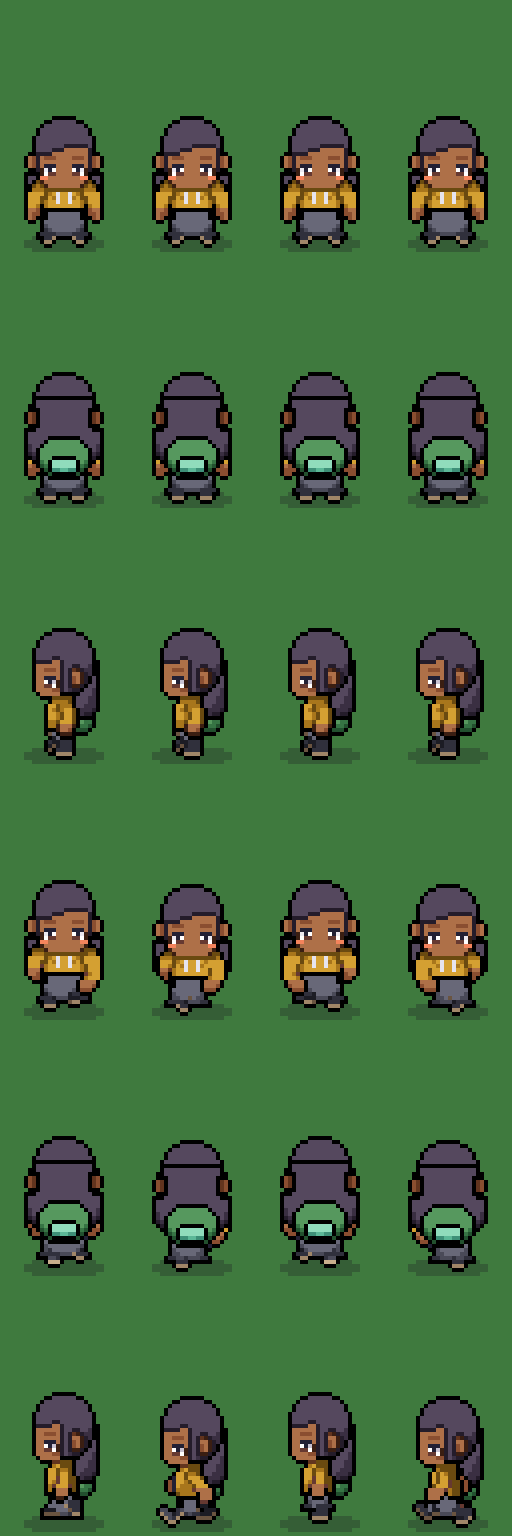
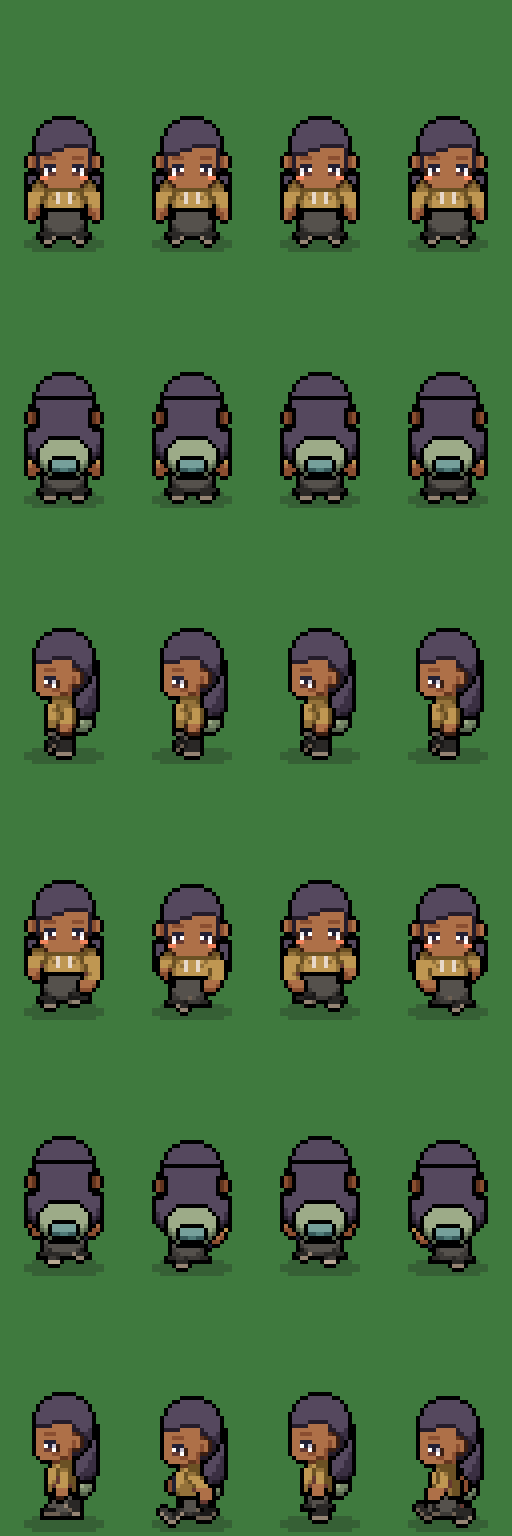
Retro dim-pastel palette; remove sideburn
- palette anchored on cream #e8d8c9, slate #4b607f, orange #f3701e,
  charcoal #1f1d1c: new muted ramps for environment (grass, path, wood,
  walls, floors, water, accent, paper) and clothing (cream, slate, dusk,
  sage, teal, mustard, orange, rust, rose, plum, beige, charcoal);
  dusty-rose hair instead of pink
- furniture/tiles use palette ramps only (no hardcoded reds/whites)
- UI: charcoal panels, cream text, orange primary, slate secondary buttons
- default avatar recolored; unknown saved color names fall back to the
  first color of the library (no key colors after a palette change)
- side view: no sideburn — below the hairline, hair only from the ear back

Claude-Session: https://claude.ai/code/session_01AuTfW4RY5hqwpF1mFtvoZZ

diff --git a/scripts/gen-placeholders.ts b/scripts/gen-placeholders.ts
@@ -565,7 +565,8 @@ function hairCap(f: Frame, sideLen: number) {
     fromHead(r, p, (x, y) => y <= headBottom + 2 && !ear(x, y));
   } else {
     // top + the whole back half of the head down to the nape, around the ear
-    fromHead(r, p, (x, y) => !ear(x, y) && (y <= h.y + 7 || (x >= h.x + 9 && y <= headBottom) || (x >= h.x + 7 && y <= h.y + 6 + Math.max(6, sideLen))));
+    // no sideburn: below the hairline, hair only from the ear backwards
+    fromHead(r, p, (x, y) => !ear(x, y) && (y <= h.y + 7 || (x >= h.x + 10 && y <= headBottom)));
     r.rect(h.x + 1, h.y + 8, 4, 1); // fringe tip
   }
 }
@@ -640,8 +641,8 @@ function terrainTileset(): Canvas {
   };
 
   // grass variants
-  noise(TERRAIN.grass0, E.grass!, 1, 0.06);
-  const g1 = noise(TERRAIN.grass1, E.grass!, 2, 0.06);
+  noise(TERRAIN.grass0, E.grass!, 1, 0.025);
+  const g1 = noise(TERRAIN.grass1, E.grass!, 2, 0.025);
   for (let i = 0; i < 5; i++) {
     const x = Math.floor(g1.rand() * 28) + 2;
     const y = Math.floor(g1.rand() * 26) + 4;
@@ -649,11 +650,11 @@ function terrainTileset(): Canvas {
     c.set(g1.ox + x, g1.oy + y - 1, E.grass![3]!);
     c.set(g1.ox + x + 1, g1.oy + y, E.grass![1]!);
   }
-  const g2 = noise(TERRAIN.grass2, E.grass!, 3, 0.06);
+  const g2 = noise(TERRAIN.grass2, E.grass!, 3, 0.025);
   for (let i = 0; i < 4; i++) {
     const x = Math.floor(g2.rand() * 26) + 3;
     const y = Math.floor(g2.rand() * 26) + 3;
-    const col = i % 2 ? "#ffffff" : "#f0c860";
+    const col = i % 2 ? E.paper![3]! : E.accent![3]!;
     c.set(g2.ox + x, g2.oy + y, col);
     c.set(g2.ox + x + 1, g2.oy + y, col);
     c.set(g2.ox + x, g2.oy + y + 1, col);
@@ -748,18 +749,18 @@ function terrainTileset(): Canvas {
     c.fill(ox + 7, oy + 8, 18, 18, E.water![3]!);
     c.fill(ox + 15, oy + 8, 2, 18, E.metal![2]!);
     c.fill(ox + 7, oy + 16, 18, 1, E.metal![2]!);
-    for (let i = 0; i < 6; i++) c.set(ox + 9 + i, oy + 22 - i, "#ffffff");
+    for (let i = 0; i < 6; i++) c.set(ox + 9 + i, oy + 22 - i, E.paper![3]!);
   }
   // collision marker (only visible in Tiled; hidden in game)
   {
     const { ox, oy } = at(TERRAIN.collision);
     for (let i = 0; i < TILE; i++) {
-      c.set(ox + i, oy + i, "#e07030", 160);
-      c.set(ox + TILE - 1 - i, oy + i, "#c4343a", 160);
-      c.set(ox + i, oy, "#c4343a", 160);
-      c.set(ox + i, oy + TILE - 1, "#c4343a", 160);
-      c.set(ox, oy + i, "#c4343a", 160);
-      c.set(ox + TILE - 1, oy + i, "#c4343a", 160);
+      c.set(ox + i, oy + i, E.accent![2]!, 160);
+      c.set(ox + TILE - 1 - i, oy + i, E.accent![1]!, 160);
+      c.set(ox + i, oy, E.accent![1]!, 160);
+      c.set(ox + i, oy + TILE - 1, E.accent![1]!, 160);
+      c.set(ox, oy + i, E.accent![1]!, 160);
+      c.set(ox + TILE - 1, oy + i, E.accent![1]!, 160);
     }
   }
   // doormat
@@ -834,13 +835,13 @@ const FURNITURE: { name: string; w: number; h: number; fw: number; fh: number; d
       for (let x = 10; x < 90; x += 16) c.fill(x, 34, 1, 26, E.wood![1]!);
       // espresso machine
       new Region(96, 64, E.metal!).round(10, 4, 22, 22, 2).paint(c);
-      c.fill(14, 10, 4, 3, "#c4343a");
+      c.fill(14, 10, 4, 3, E.accent![2]!);
       new Region(96, 64, E.metal!).rect(17, 18, 8, 3).paint(c);
       // cups
       for (const x of [44, 52, 60]) new Region(96, 64, E.tileFloor!).round(x, 16, 6, 7, 1).paint(c);
       // register
       new Region(96, 64, E.wallTop!).round(72, 10, 16, 14, 1).paint(c);
-      c.fill(75, 12, 10, 5, "#5cb898");
+      c.fill(75, 12, 10, 5, E.water![3]!);
     },
   },
   {
@@ -879,10 +880,10 @@ const FURNITURE: { name: string; w: number; h: number; fw: number; fh: number; d
       new Region(64, 64, E.metal!).rect(8, 40, 3, 22).paint(c);
       new Region(64, 64, E.metal!).rect(53, 40, 3, 22).paint(c);
       new Region(64, 64, E.metal!).round(2, 4, 60, 40, 1).paint(c);
-      c.fill(5, 7, 54, 34, "#ffffff");
+      c.fill(5, 7, 54, 34, E.paper![3]!);
       c.fill(9, 12, 22, 1, E.water![1]!);
       c.fill(9, 16, 30, 1, E.water![1]!);
-      c.fill(9, 20, 16, 1, "#c4343a");
+      c.fill(9, 20, 16, 1, E.accent![2]!);
       new Region(64, 64, E.leaf!).rect(38, 22, 16, 14).paint(c);
     },
   },
@@ -917,8 +918,8 @@ const FURNITURE: { name: string; w: number; h: number; fw: number; fh: number; d
       new Region(32, 96, E.metal!).rect(14, 20, 4, 70).paint(c);
       new Region(32, 96, E.metal!).round(10, 88, 12, 6, 1).paint(c);
       new Region(32, 96, E.metal!).round(8, 8, 16, 14, 2).paint(c);
-      c.fill(11, 12, 10, 7, "#f0c860");
-      c.fill(12, 13, 4, 2, "#ffffff");
+      c.fill(11, 12, 10, 7, E.accent![3]!);
+      c.fill(12, 13, 4, 2, E.paper![3]!);
     },
   },
   {
@@ -927,8 +928,8 @@ const FURNITURE: { name: string; w: number; h: number; fw: number; fh: number; d
       new Region(32, 64, E.wallTop!).round(4, 6, 24, 54, 3).paint(c);
       new Region(32, 64, E.water!).round(7, 10, 18, 24, 2).paint(c);
       // capsule icon
-      c.fill(11, 18, 5, 6, "#c4343a");
-      c.fill(16, 18, 5, 6, "#ffffff");
+      c.fill(11, 18, 5, 6, E.accent![2]!);
+      c.fill(16, 18, 5, 6, E.paper![3]!);
       c.fill(12, 17, 8, 1, E.wallTop![0]!);
       c.fill(12, 24, 8, 1, E.wallTop![0]!);
       new Region(32, 64, E.metal!).round(9, 40, 14, 10, 1).paint(c);

diff --git a/client/src/ui/styles.css b/client/src/ui/styles.css
@@ -1,10 +1,12 @@
 :root {
-  --bg: #1a1420;
-  --panel: rgba(26, 20, 32, 0.92);
-  --line: rgba(255, 255, 255, 0.1);
-  --text: #f4f0f8;
-  --muted: #9c96b0;
-  --accent: #5cb898;
+  /* retro dim pastel: cream #e8d8c9 · slate #4b607f · orange #f3701e · charcoal #1f1d1c */
+  --bg: #1f1d1c;
+  --panel: rgba(31, 29, 28, 0.94);
+  --line: rgba(232, 216, 201, 0.14);
+  --text: #e8d8c9;
+  --muted: #9c8f82;
+  --accent: #f3701e;
+  --slate: #4b607f;
   font-family: ui-sans-serif, system-ui, -apple-system, "Segoe UI", sans-serif;
   color: var(--text);
 }
@@ -18,24 +20,24 @@ html, body { margin: 0; height: 100%; overflow: hidden; background: var(--bg); }
 .loading { position: fixed; inset: 0; display: grid; place-items: center; color: var(--muted); font-size: 14px; }
 
 .hud-top { position: fixed; top: 12px; left: 12px; display: flex; gap: 8px; align-items: center; pointer-events: none; }
-.brand { font-weight: 700; letter-spacing: 0.02em; background: var(--panel); padding: 6px 10px; border-radius: 8px; border: 1px solid var(--line); font-size: 13px; }
+.brand { color: var(--text); font-weight: 700; letter-spacing: 0.02em; background: var(--panel); padding: 6px 10px; border-radius: 8px; border: 1px solid var(--line); font-size: 13px; }
 .chip { background: var(--panel); border: 1px solid var(--line); border-radius: 999px; padding: 4px 10px; font-size: 12px; color: var(--muted); text-transform: capitalize; }
 
-.debug-panel { position: fixed; top: 12px; right: 12px; background: var(--panel); border: 1px solid var(--line); border-radius: 8px; padding: 8px 10px; font: 12px ui-monospace, Menlo, monospace; line-height: 1.5; pointer-events: none; }
+.debug-panel { color: var(--text); position: fixed; top: 12px; right: 12px; background: var(--panel); border: 1px solid var(--line); border-radius: 8px; padding: 8px 10px; font: 12px ui-monospace, Menlo, monospace; line-height: 1.5; pointer-events: none; }
 .muted { color: var(--muted); }
 
 .dock { position: fixed; bottom: 14px; left: 50%; transform: translateX(-50%); display: flex; gap: 8px; align-items: center; background: var(--panel); border: 1px solid var(--line); border-radius: 12px; padding: 6px; }
 .hint { color: var(--muted); font-size: 12px; padding: 0 8px; }
 
-.btn { background: var(--accent); color: #0e1a14; border: 0; border-radius: 8px; padding: 8px 14px; font-weight: 600; font-size: 13px; cursor: pointer; }
+.btn { background: var(--accent); color: #1f1d1c; border: 0; border-radius: 8px; padding: 8px 14px; font-weight: 600; font-size: 13px; cursor: pointer; }
 .btn:hover { filter: brightness(1.08); }
-.btn.ghost { background: transparent; color: var(--text); border: 1px solid var(--line); }
+.btn.ghost { background: var(--slate); color: var(--text); border: 1px solid transparent; }
 .btn.small { padding: 4px 10px; font-size: 12px; }
 
 .builder-backdrop { position: fixed; inset: 0; background: rgba(10, 8, 14, 0.55); display: grid; place-items: center; }
 .builder { display: flex; gap: 20px; background: var(--panel); border: 1px solid var(--line); border-radius: 14px; padding: 20px; width: min(760px, 94vw); max-height: 90vh; }
 .builder-preview { display: flex; flex-direction: column; align-items: center; gap: 10px; width: 200px; flex-shrink: 0; }
-.preview { width: 160px; height: 320px; image-rendering: pixelated; background: repeating-conic-gradient(#2a2432 0% 25%, #241e2c 0% 50%) 0 0 / 20px 20px; border-radius: 10px; border: 1px solid var(--line); }
+.preview { width: 160px; height: 320px; image-rendering: pixelated; background: repeating-conic-gradient(#2a2826 0% 25%, #24221f 0% 50%) 0 0 / 20px 20px; border-radius: 10px; border: 1px solid var(--line); }
 .builder-side { flex: 1; display: flex; flex-direction: column; gap: 12px; overflow: auto; }
 .row { display: flex; gap: 6px; align-items: center; }
 .row.end { justify-content: flex-end; margin-top: auto; }
@@ -43,10 +45,10 @@ html, body { margin: 0; height: 100%; overflow: hidden; background: var(--bg); }
 .label { font-size: 11px; text-transform: uppercase; letter-spacing: 0.08em; color: var(--muted); margin-bottom: 6px; align-self: flex-start; }
 .tabs { display: flex; flex-wrap: wrap; gap: 4px; }
 .tab { background: transparent; color: var(--muted); border: 1px solid var(--line); border-radius: 999px; padding: 5px 11px; font-size: 12px; cursor: pointer; }
-.tab.on { color: var(--text); border-color: var(--accent); background: rgba(92, 184, 152, 0.15); }
+.tab.on { color: var(--text); border-color: var(--accent); background: rgba(243, 112, 30, 0.14); }
 .items { display: flex; flex-wrap: wrap; gap: 6px; }
 .item { background: rgba(255, 255, 255, 0.05); color: var(--text); border: 1px solid var(--line); border-radius: 8px; padding: 8px 12px; font-size: 13px; cursor: pointer; }
-.item.on { border-color: var(--accent); background: rgba(92, 184, 152, 0.15); }
+.item.on { border-color: var(--accent); background: rgba(243, 112, 30, 0.14); }
 .item.locked { opacity: 0.45; cursor: not-allowed; }
 .swatches { display: flex; flex-wrap: wrap; gap: 6px; }
 .swatch { width: 22px; height: 22px; border-radius: 6px; border: 2px solid transparent; cursor: pointer; box-shadow: inset 0 0 0 1px rgba(0, 0, 0, 0.4); }

diff --git a/shared/src/palette.ts b/shared/src/palette.ts
@@ -31,22 +31,33 @@ export const HAIR_RAMPS: Record<string, Ramp> = {
   auburn: ["#3a140e", "#6e2618", "#a03e24", "#c8603a"],
   blonde: ["#6e4a1c", "#b0823a", "#dcb05c", "#f2d88e"],
   gray: ["#3e3c44", "#6c6a74", "#9c9aa4", "#cfcdd6"],
-  pink: ["#5a1e3c", "#a03c6a", "#d8689a", "#f4a6c6"],
+  rose: ["#5e3a40", "#8a5560", "#b07a82", "#d1a3a6"], // dusty rose (retro palette)
 };
 
+/**
+ * Retro dim-pastel palette. Anchors: cream #e8d8c9 · slate #4b607f · orange #f3701e · charcoal #1f1d1c.
+ * Every ramp is muted/desaturated so the whole game reads as one warm, dusty retro scheme.
+ */
+export const RETRO = {
+  cream: "#e8d8c9",
+  slate: "#4b607f",
+  orange: "#f3701e",
+  charcoal: "#1f1d1c",
+} as const;
+
 export const CLOTH_RAMPS: Record<string, Ramp> = {
-  charcoal: ["#1c1c24", "#30303c", "#4a4a58", "#686878"],
-  white: ["#8e8a9c", "#c4c0d0", "#e6e4ee", "#ffffff"],
-  navy: ["#141c38", "#22305c", "#344a86", "#4e68aa"],
-  sky: ["#1e4a78", "#2f72a8", "#4a9ad0", "#7cc2ea"],
-  forest: ["#14301e", "#22502e", "#367444", "#56985e"],
-  mint: ["#2a6656", "#3e9078", "#5cb898", "#90dcbc"],
-  mustard: ["#6a4a10", "#a8761c", "#d4a032", "#f0c860"],
-  orange: ["#6e2a10", "#b04a1c", "#e07030", "#f8a060"],
-  red: ["#5a1418", "#922028", "#c4343a", "#e86058"],
-  plum: ["#381a3e", "#5c2c66", "#844490", "#ac6ab6"],
-  beige: ["#6a5440", "#a08668", "#c8ae8c", "#e8d6b6"],
-  denim: ["#1c2a44", "#2e4268", "#46608e", "#6884b0"],
+  charcoal: ["#1a1918", "#2a2826", "#3d3a37", "#55514c"],
+  cream: ["#9c8f82", "#c4b5a6", "#e8d8c9", "#f6efe7"],
+  slate: ["#263142", "#37465e", "#4b607f", "#6f84a3"],
+  dusk: ["#2b2f45", "#3d4360", "#565e82", "#7a82a4"],
+  sage: ["#3a4535", "#55644c", "#768767", "#9dab88"],
+  teal: ["#24403f", "#36595a", "#4f7a78", "#76a09b"],
+  mustard: ["#6b5124", "#94723a", "#bf9752", "#dcbc7d"],
+  orange: ["#8a3c12", "#c2561a", "#f3701e", "#f7a066"],
+  rust: ["#5c2a20", "#83402f", "#a85a45", "#c98370"],
+  rose: ["#6b4148", "#8f5c63", "#b37f84", "#d3a7a8"],
+  plum: ["#3d2d3d", "#574257", "#755c74", "#977f95"],
+  beige: ["#6e6052", "#958473", "#b9a893", "#d6c7b3"],
 };
 
 /** Fixed (non-recolorable) colors allowed in character art. */
@@ -62,21 +73,24 @@ export const FIXED_COLORS = {
   base3: "#ffffff",
   glassFrame: "#24202c",
   glassLens: "#a8d8f0",
-  shadow: "#1a1420", // only with alpha, in the shadow layer
+  shadow: "#1f1d1c", // only with alpha, in the shadow layer
 } as const;
 
 /** Environment palette (tiles + furniture). */
+/** Environment palette (tiles + furniture) — same retro dim-pastel family. */
 export const ENV_RAMPS: Record<string, Ramp> = {
-  grass: ["#2e5a32", "#3f7a3e", "#5a9a4c", "#7cba62"],
-  path: ["#6e6258", "#8e8276", "#aea294", "#cec2b2"],
-  wood: ["#4a2e1e", "#6e4630", "#94643e", "#b88656"],
-  wallFace: ["#5a5468", "#7a7490", "#9c96b0", "#c2bed4"],
-  wallTop: ["#2a2634", "#3c3648", "#504a5e", "#686078"],
-  carpet: ["#3a2a4e", "#4e3a68", "#664e86", "#8268a6"],
-  tileFloor: ["#8c8a96", "#aeacb8", "#cccad4", "#e6e4ec"],
-  leaf: ["#1e4a2a", "#2e6a38", "#44904a", "#66b25e"],
-  metal: ["#3a3e48", "#5a606c", "#828a96", "#b0b8c2"],
-  water: ["#1a3e6a", "#245a92", "#3a7eb8", "#62a6d8"],
+  grass: ["#3c4637", "#56634c", "#748366", "#98a585"],
+  path: ["#6e655c", "#90867a", "#b1a595", "#cfc2b1"],
+  wood: ["#4a3329", "#6c4b3a", "#8f6a51", "#b48d6d"],
+  wallFace: ["#8c7f71", "#b0a292", "#d2c4b4", "#e8d8c9"],
+  wallTop: ["#1f1d1c", "#2c3240", "#3b4558", "#4b607f"],
+  carpet: ["#4f3530", "#6e4a3f", "#8f6352", "#b2826c"],
+  tileFloor: ["#9a9084", "#bab0a3", "#d6cbbe", "#ebe1d5"],
+  leaf: ["#2e3a2f", "#435441", "#5f7258", "#839578"],
+  metal: ["#2b2f38", "#454c5a", "#677082", "#959dab"],
+  water: ["#263247", "#374863", "#4b607f", "#7187a6"],
+  accent: ["#8a3c12", "#c2561a", "#f3701e", "#f7a066"], // retro orange (lights, signage, pills)
+  paper: ["#9c8f82", "#c4b5a6", "#e8d8c9", "#f6efe7"], // cream (screens, cups, whiteboards)
 };
 
 export function hexToRgb(hex: string): RGB {

diff --git a/scripts/preview-avatar.ts b/scripts/preview-avatar.ts
@@ -70,9 +70,9 @@ function scale(c: Canvas, k: number, bg = "#3f7a3e"): Canvas {
 
 const looks: Record<string, Avatar> = {
   default: DEFAULT_AVATAR,
-  hoodie: { skin: "brown", slots: { ...DEFAULT_AVATAR.slots, hair: { id: "hair_long_01", primary: "black" }, outerwear: { id: "outer_hoodie_01", primary: "mustard", secondary: "white" }, bottom: { id: "bottom_skirt_01", primary: "charcoal" }, shoes: { id: "shoes_boots_01", primary: "charcoal", secondary: "beige" }, back_accessory: { id: "backpack_01", primary: "forest", secondary: "mint" } } },
-  founder: { skin: "porcelain", slots: { ...DEFAULT_AVATAR.slots, hair: { id: "hair_bun_01", primary: "blonde" }, top: { id: "top_longsleeve_01", primary: "white", secondary: "navy" }, outerwear: { id: "outer_blazer_01", primary: "navy", secondary: "white" }, face_accessory: { id: "glasses_01" }, bottom: { id: "bottom_pants_01", primary: "charcoal" } } },
-  cap: { skin: "deep", slots: { ...DEFAULT_AVATAR.slots, headwear: { id: "head_cap_01", primary: "red", secondary: "charcoal" }, bottom: { id: "bottom_shorts_01", primary: "beige" }, top: { id: "top_tee_01", primary: "plum" } } },
+  hoodie: { skin: "brown", slots: { ...DEFAULT_AVATAR.slots, hair: { id: "hair_long_01", primary: "black" }, outerwear: { id: "outer_hoodie_01", primary: "mustard", secondary: "cream" }, bottom: { id: "bottom_skirt_01", primary: "charcoal" }, shoes: { id: "shoes_boots_01", primary: "charcoal", secondary: "beige" }, back_accessory: { id: "backpack_01", primary: "sage", secondary: "teal" } } },
+  founder: { skin: "porcelain", slots: { ...DEFAULT_AVATAR.slots, hair: { id: "hair_bun_01", primary: "blonde" }, top: { id: "top_longsleeve_01", primary: "cream", secondary: "slate" }, outerwear: { id: "outer_blazer_01", primary: "slate", secondary: "cream" }, face_accessory: { id: "glasses_01" }, bottom: { id: "bottom_pants_01", primary: "charcoal" } } },
+  cap: { skin: "deep", slots: { ...DEFAULT_AVATAR.slots, headwear: { id: "head_cap_01", primary: "orange", secondary: "charcoal" }, bottom: { id: "bottom_shorts_01", primary: "beige" }, top: { id: "top_tee_01", primary: "rust" } } },
 };
 
 fs.mkdirSync(path.join(ROOT, "docs/previews"), { recursive: true });

diff --git a/shared/src/avatar.ts b/shared/src/avatar.ts
@@ -107,9 +107,9 @@ export const DEFAULT_AVATAR: Avatar = {
     body: { id: "body_01" },
     face: { id: "face_01" },
     hair: { id: "hair_short_01", primary: "brown" },
-    top: { id: "top_tee_01", primary: "sky" },
-    bottom: { id: "bottom_pants_01", primary: "denim" },
-    shoes: { id: "shoes_sneakers_01", primary: "white", secondary: "charcoal" },
+    top: { id: "top_tee_01", primary: "slate" },
+    bottom: { id: "bottom_pants_01", primary: "charcoal" },
+    shoes: { id: "shoes_sneakers_01", primary: "cream", secondary: "orange" },
     outerwear: null,
     headwear: null,
     face_accessory: null,
@@ -124,7 +124,9 @@ export function rampLibraryFor(slot: Slot): Record<string, Ramp> {
 
 export function resolveRamp(slot: Slot, name: string | undefined): Ramp | undefined {
   if (!name) return undefined;
-  return rampLibraryFor(slot)[name];
+  const lib = rampLibraryFor(slot);
+  // unknown names (e.g. saved before a palette change) fall back to the first color instead of key colors
+  return lib[name] ?? Object.values(lib)[0];
 }
 
 export function skinRamp(name: string): Ramp {

diff --git a/shared/src/shared.test.ts b/shared/src/shared.test.ts
@@ -73,8 +73,8 @@ describe("palette swap", () => {
   it("replaces key ramp pixels only", () => {
     const [r, g, b] = hexToRgb(KEY_RAMPS.primary[2]);
     const px = new Uint8ClampedArray([r, g, b, 255, 10, 20, 30, 255]);
-    swapPixels(px, buildSwapTable({ primary: CLOTH_RAMPS.red! }));
-    expect([...px.slice(0, 3)]).toEqual(hexToRgb(CLOTH_RAMPS.red![2]));
+    swapPixels(px, buildSwapTable({ primary: CLOTH_RAMPS.orange! }));
+    expect([...px.slice(0, 3)]).toEqual(hexToRgb(CLOTH_RAMPS.orange![2]));
     expect([...px.slice(4, 7)]).toEqual([10, 20, 30]);
   });
 });

diff --git a/client/src/game/render/camera.ts b/client/src/game/render/camera.ts
@@ -9,7 +9,7 @@ export function integerZoom(viewH: number): number {
 export function setupCamera(scene: Phaser.Scene, target: Phaser.GameObjects.Sprite, worldW: number, worldH: number, onZoom: (z: number) => void) {
   const cam = scene.cameras.main;
   cam.setRoundPixels(true);
-  cam.setBackgroundColor("#1a1420");
+  cam.setBackgroundColor("#1f1d1c");
 
   const apply = () => {
     const z = integerZoom(scene.scale.height);

diff --git a/client/src/game/createGame.ts b/client/src/game/createGame.ts
@@ -8,7 +8,7 @@ export function createGame(parent: HTMLElement): Phaser.Game {
     parent,
     pixelArt: true, // nearest-neighbour, no antialias, rounded pixels
     roundPixels: true,
-    backgroundColor: "#1a1420",
+    backgroundColor: "#1f1d1c",
     scale: { mode: Phaser.Scale.RESIZE, width: window.innerWidth, height: window.innerHeight },
     scene: [BootScene, WorldScene],
     fps: { target: 60 },

diff --git a/client/src/game/entities/CharacterView.ts b/client/src/game/entities/CharacterView.ts
@@ -25,8 +25,8 @@ export class CharacterView {
       .text(0, 0, character.name, {
         fontFamily: "ui-monospace, Menlo, monospace",
         fontSize: "8px",
-        color: "#ffffff",
-        backgroundColor: "#1a1420cc",
+        color: "#e8d8c9",
+        backgroundColor: "#1f1d1ccc",
         padding: { x: 3, y: 1 },
         resolution: 4,
       })

diff --git a/CLAUDE.md b/CLAUDE.md
@@ -31,6 +31,7 @@ Full spec: `docs/spec.md`. Read it before changing anything in `shared/src/spec.
 - Grid movement, one tile per `STEP_MS` (180 ms). 4 directions; `right` = `left` mirrored.
 - Sheet template: 4 columns × 6 rows (128×384). Rows anim-major: idle_down, idle_up, idle_left, walk_down, walk_up, walk_left. Idle 4 frames, walk 4 (8 fps).
 - Character art: pure black outline, key ramps for recolorable parts (skin = yellow keys, primary = magenta keys, secondary = cyan keys), fixed colors from `FIXED_COLORS`.
+- Palette: retro dim pastel — anchors cream `#e8d8c9`, slate `#4b607f`, orange `#f3701e`, charcoal `#1f1d1c` (`RETRO` in `shared/src/palette.ts`). All env/cloth/UI colors come from these ramps; no saturated or off-palette colors (the validator enforces it for art).
 - Depth = feet / base y for characters and furniture. Ground layers < 0, `above` layer 2,000,000, debug 3,000,000.
 
 ## Characters
